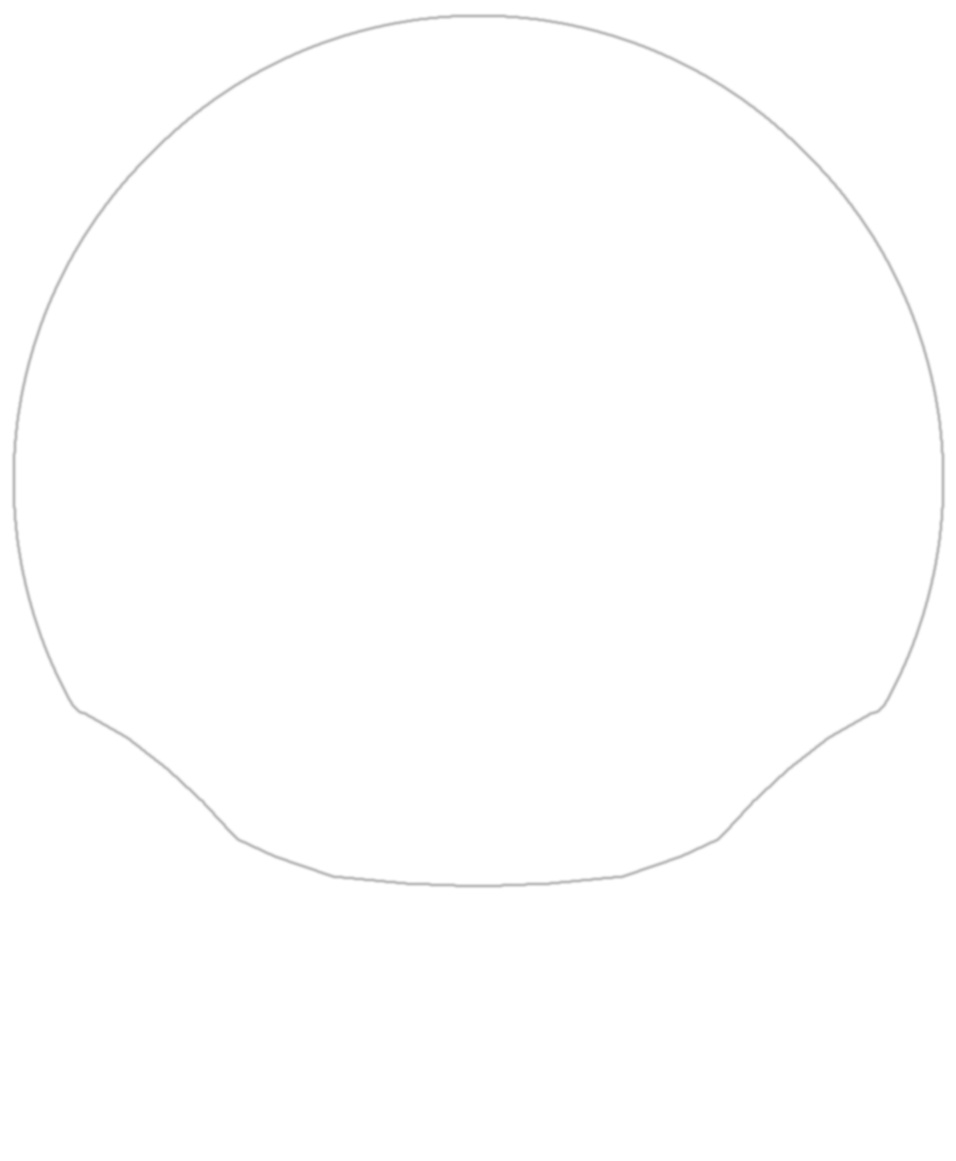
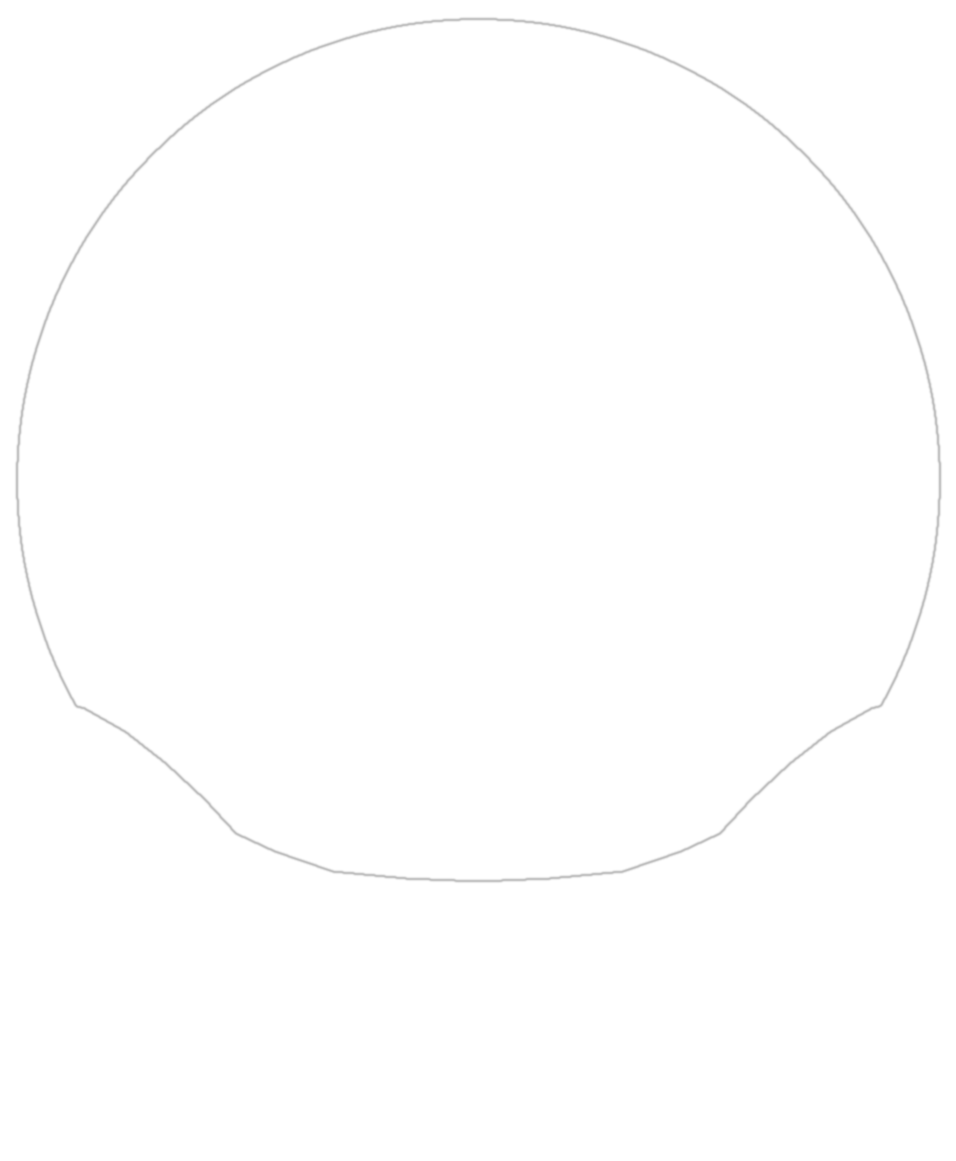
Krone der Aschenbrödel Kugel vollständig, Glasöffnungen überdecken keinen Rahmen mehr
Claude-Session: https://claude.ai/code/session_01BpwWsVheQymmqK4vJ5XgrZ

diff --git a/index.html b/index.html
@@ -400,7 +400,7 @@ const TUERCHEN = {
   3:  { video: "", song: "t03-861fdead", titel: "Hobbit", bild: "bilder/b03-54943730.jpg", wetter: "elben", kugel: "bilder/kugel-elben-913df12a.webp", clip: "https://youtu.be/chxX9uucndY", text: "" },
   4:  { video: "", song: "t04-42593136", titel: "Creep", bild: "bilder/b04-e39107ba.jpg", wetter: "regen", kugel: "bilder/kugel-regen-b47fee09.webp", text: "" },
   5:  { video: "", song: "t05-ebefd28c", titel: "Memories", kugel: "bilder/kugel-wald-58817d5f.webp", kugelrand: [200,80], kugelversatz: "17vw", fenster: ["240%", "92% 42%"], bildpos: "100% 50%", bild: "bilder/b05-208fe068.jpg", wetter: "pusteblume", text: "" },
-  6:  { video: "", song: "t06-6a105033", titel: "Drei Nüsse für Aschenbrödel", clip: "https://youtu.be/zqamJZ3Jiy4", wetter: "zauberschnee", kugel: "bilder/kugel-aschenbroedel-3f28b2c7.webp", kugelrand: [0,250], bild: "bilder/b06-c5578fd1.jpg", kugelversatz: "-24vw", fenster: ["650%", "0% 42%"], text: "" },
+  6:  { video: "", song: "t06-6a105033", titel: "Drei Nüsse für Aschenbrödel", clip: "https://youtu.be/zqamJZ3Jiy4", wetter: "zauberschnee", kugel: "bilder/kugel-aschenbroedel-d3dd5165.webp", kugelrand: [0,250], bild: "bilder/b06-c5578fd1.jpg", kugelversatz: "-24vw", fenster: ["650%", "0% 42%"], text: "" },
   7:  { video: "", song: "t07-e9b8a12f", titel: "Spirit", bild: "bilder/b07-fc7e8a62.jpg", wetter: "pusteblume", kugel: "bilder/kugel-spirit-e2d0bdfd.webp", kugelrand: [60,0], kugelversatz: "-18vw", fenster: ["300%", "14% 64%"], clip: "https://youtu.be/q9ikblV9Cyg", text: "" },
   8:  { video: "", text: "" },
   9:  { video: "", text: "" },
